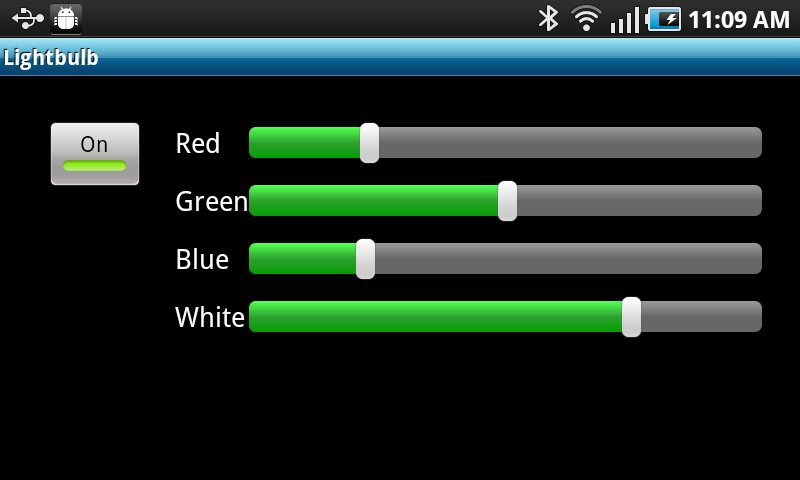
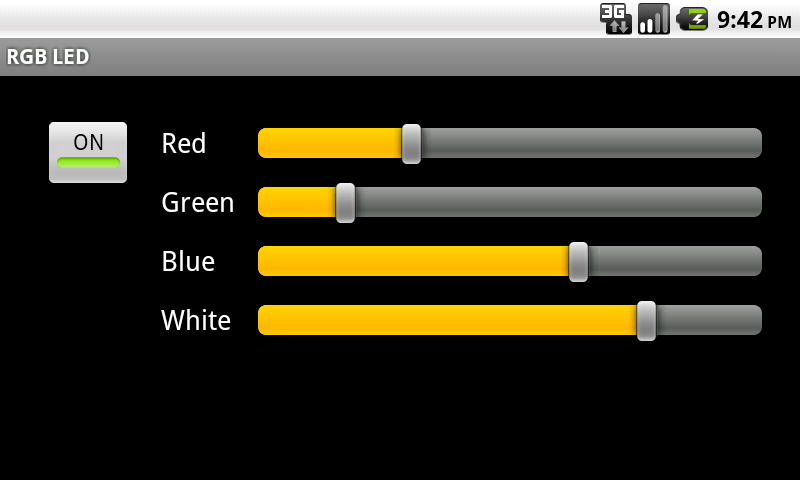
updated docs and screenshots

diff --git a/src/com/outofjungle/colorcontrol/Cosm.java b/src/com/outofjungle/colorcontrol/Cosm.java
@@ -55,7 +55,7 @@ public class Cosm {
 		if (datastream.containsKey(name)) {
 			value = datastream.get(name);
 		} else {
-			Log.i("LIGHTBULB", "Datastream key not found");
+			Log.i("COSM", "Datastream key not found");
 		}
 		return value;
 	}
@@ -65,7 +65,7 @@ public class Cosm {
 		if (datastream.containsKey(name)) {
 			datastream.put(name, value);
 		} else {
-			Log.i("LIGHTBULB", "Datastream key not found");
+			Log.i("COSM", "Datastream key not found");
 		}
 
 		return get(name);
@@ -98,11 +98,11 @@ public class Cosm {
 		JSONObject feed;
 		try {
 			String uri = api_uri + "?rand=" + System.currentTimeMillis();
-			Log.i("LIGHTBULB", "Fetching: " + uri);
+			Log.i("COSM", "Fetching: " + uri);
 			feed = new JSONObject(GET(uri));
 			title = feed.optString("title");
 			JSONArray feed_data = feed.getJSONArray("datastreams");
-			Log.i("LIGHTBULB", feed.toString());
+			Log.i("COSM", feed.toString());
 			for (int i = 0; i < feed_data.length(); ++i) {
 				
 				JSONObject data = feed_data.getJSONObject(i);

diff --git a/README.rst b/README.rst
@@ -1,14 +1,14 @@
 =========
-Lightbulb
+Color Control
 =========
 
-Pachube android client to update datastream for controlling RGB LEDs
+Cosm android client to update datastream for controlling RGB LEDs
 
 Requirements
 ============
 
-* Pachube Feed with datastreams named ch1, ch2, ch3, ch4, switch
-* Pachube API key which has read/write privilige for the feed
+* Cosm Feed with datastreams named 0 (switch), 1 (red), 2 (green), 3 (blue), 4 (white)
+* Cosm API key which has read/write privilige for the feed
 * Internet connectivity
 
 Usage
@@ -20,7 +20,7 @@ Create an XML file /res/values/secret.xml
 
 <?xml version="1.0" encoding="utf-8"?>
 <resources>
-<string name="api_uri">http://api.pachube.com/v2/feeds/YOUR-PACHUBE-FEED-ID</string>
+<string name="api_uri">http://api.cosm.com/v2/feeds/YOUR-PACHUBE-FEED-ID.json</string>
 <string name="api_key">YOUR-PACHUBE-API-KEY</string>
 </resources>
 
@@ -28,10 +28,10 @@ Create an XML file /res/values/secret.xml
 Screens
 =======
 
-* .. image:: https://github.com/outofjungle/Lightbulb/raw/master/Screenshot-1.png
+* .. image:: https://github.com/outofjungle/ColorControl/raw/master/Screenshot-1.png
 
-* .. image:: https://github.com/outofjungle/Lightbulb/raw/master/Screenshot-2.png
+* .. image:: https://github.com/outofjungle/ColorControl/raw/master/Screenshot-2.png
 
-* .. image:: https://github.com/outofjungle/Lightbulb/raw/master/Screenshot-3.png
+* .. image:: https://github.com/outofjungle/ColorControl/raw/master/Screenshot-3.png
 
 
